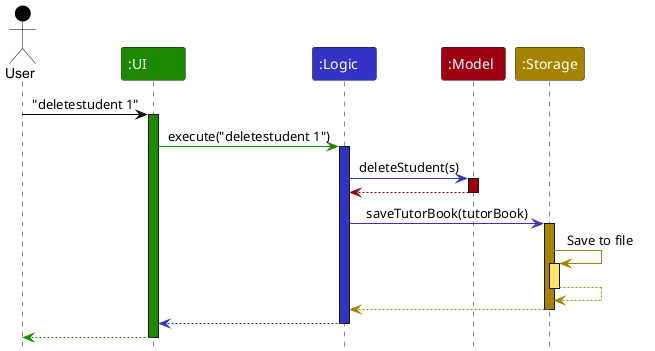
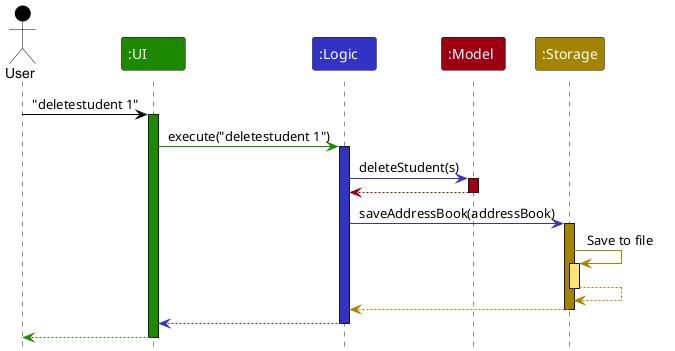
Use the code's class names in the Developer Guide
The Logic section, the proposed undo/redo section and their diagrams
named TutorBook, TutorBookParser and VersionedTutorBook, which do not
exist in the code. Rename them to AddressBook, AddressBookParser and
VersionedAddressBook, and the matching methods, and re-render the
architecture, delete, parser, commit and undo/redo diagrams.

diff --git a/docs/DeveloperGuide.md b/docs/DeveloperGuide.md
@@ -103,7 +103,7 @@ The sequence diagram below illustrates the interactions within the `Logic` compo
 
 How the `Logic` component works:
 
-1. When `Logic` is called upon to execute a command, the command is passed to a `TutorBookParser` object, which in turn creates a parser that matches the command (e.g., `DeleteStudentCommandParser`) and uses it to parse the command.
+1. When `Logic` is called upon to execute a command, the command is passed to a `AddressBookParser` object, which in turn creates a parser that matches the command (e.g., `DeleteStudentCommandParser`) and uses it to parse the command.
 1. This results in a `Command` object (more precisely, an object of one of its subclasses e.g., `DeleteStudentCommand`) which is executed by the `LogicManager`.
 1. The command can communicate with the `Model` when it is executed (e.g. to delete a student).<br>
    Note that although this is shown as a single step in the diagram above for simplicity, the code can require several interactions between the command object and the `Model` to complete the operation.
@@ -114,7 +114,7 @@ Here are the other classes in `Logic` (omitted from the class diagram above) tha
 <img src="images/ParserClasses.png" width="600"/>
 
 How the parsing works:
-* When called upon to parse a user command, the `TutorBookParser` class creates an `XYZCommandParser` (`XYZ` is a placeholder for the specific command name, e.g., `AddStudentCommandParser`). The parser uses the other classes shown above to parse the user command and create an `XYZCommand` object (e.g., `AddStudentCommand`). The `TutorBookParser` returns that object as a `Command` object.
+* When called upon to parse a user command, the `AddressBookParser` class creates an `XYZCommandParser` (`XYZ` is a placeholder for the specific command name, e.g., `AddStudentCommandParser`). The parser uses the other classes shown above to parse the user command and create an `XYZCommand` object (e.g., `AddStudentCommand`). The `AddressBookParser` returns that object as a `Command` object.
 * All `XYZCommandParser` classes, such as `AddStudentCommandParser` and `DeleteStudentCommandParser`, implement the `Parser` interface so they can be treated similarly where appropriate, for example during testing.
 
 ### Model component
@@ -369,37 +369,37 @@ Step 4. Otherwise, the command calls `Model#unenrolStudent()`, which removes the
 
 #### Proposed Implementation
 
-The proposed undo/redo mechanism is facilitated by `VersionedTutorBook`. It extends `TutorBook` with an undo/redo history, stored internally as a `tutorBookStateList` and `currentStatePointer`. Additionally, it implements the following operations:
+The proposed undo/redo mechanism is facilitated by `VersionedAddressBook`. It extends `AddressBook` with an undo/redo history, stored internally as a `addressBookStateList` and `currentStatePointer`. Additionally, it implements the following operations:
 
-* `VersionedTutorBook#commit()` — Saves the current tutor book state in its history.
-* `VersionedTutorBook#undo()` — Restores the previous tutor book state from its history.
-* `VersionedTutorBook#redo()` — Restores a previously undone tutor book state from its history.
+* `VersionedAddressBook#commit()` — Saves the current address book state in its history.
+* `VersionedAddressBook#undo()` — Restores the previous address book state from its history.
+* `VersionedAddressBook#redo()` — Restores a previously undone address book state from its history.
 
-These operations are exposed in the `Model` interface as `Model#commitTutorBook()`, `Model#undoTutorBook()` and `Model#redoTutorBook()` respectively.
+These operations are exposed in the `Model` interface as `Model#commitAddressBook()`, `Model#undoAddressBook()` and `Model#redoAddressBook()` respectively.
 
 Given below is an example usage scenario and how the undo/redo mechanism behaves at each step.
 
-Step 1. The user launches the application for the first time. The `VersionedTutorBook` will be initialized with the initial tutor book state, and the `currentStatePointer` pointing to that single tutor book state.
+Step 1. The user launches the application for the first time. The `VersionedAddressBook` will be initialized with the initial address book state, and the `currentStatePointer` pointing to that single address book state.
 
 ![UndoRedoState0](images/UndoRedoState0.png)
 
-Step 2. The user executes `deletestudent 5` command to delete the 5th student in the tutor book. The `deletestudent` command calls `Model#commitTutorBook()`, causing the modified state of the tutor book after the `deletestudent 5` command executes to be saved in the `tutorBookStateList`, and the `currentStatePointer` is shifted to the newly inserted tutor book state.
+Step 2. The user executes `deletestudent 5` command to delete the 5th student in the address book. The `deletestudent` command calls `Model#commitAddressBook()`, causing the modified state of the address book after the `deletestudent 5` command executes to be saved in the `addressBookStateList`, and the `currentStatePointer` is shifted to the newly inserted address book state.
 
 ![UndoRedoState1](images/UndoRedoState1.png)
 
-Step 3. The user executes `addstudent n/David …` to add a new student. The `addstudent` command also calls `Model#commitTutorBook()`, causing another modified tutor book state to be saved into the `tutorBookStateList`.
+Step 3. The user executes `addstudent n/David …` to add a new student. The `addstudent` command also calls `Model#commitAddressBook()`, causing another modified address book state to be saved into the `addressBookStateList`.
 
 ![UndoRedoState2](images/UndoRedoState2.png)
 
-<div markdown="span" class="alert alert-info">:information_source: **Note:** If a command fails its execution, it will not call `Model#commitTutorBook()`, so the tutor book state will not be saved into the `tutorBookStateList`.
+<div markdown="span" class="alert alert-info">:information_source: **Note:** If a command fails its execution, it will not call `Model#commitAddressBook()`, so the address book state will not be saved into the `addressBookStateList`.
 
 </div>
 
-Step 4. The user now decides that adding the student was a mistake, and decides to undo that action by executing the `undo` command. The `undo` command will call `Model#undoTutorBook()`, which will shift the `currentStatePointer` once to the left, pointing it to the previous tutor book state, and restores the tutor book to that state.
+Step 4. The user now decides that adding the student was a mistake, and decides to undo that action by executing the `undo` command. The `undo` command will call `Model#undoAddressBook()`, which will shift the `currentStatePointer` once to the left, pointing it to the previous address book state, and restores the address book to that state.
 
 ![UndoRedoState3](images/UndoRedoState3.png)
 
-<div markdown="span" class="alert alert-info">:information_source: **Note:** If the `currentStatePointer` is at index 0, pointing to the initial tutor book state, then there are no previous tutor book states to restore. The `undo` command uses `Model#canUndoTutorBook()` to check if this is the case. If so, it will return an error to the user rather
+<div markdown="span" class="alert alert-info">:information_source: **Note:** If the `currentStatePointer` is at index 0, pointing to the initial address book state, then there are no previous address book states to restore. The `undo` command uses `Model#canUndoAddressBook()` to check if this is the case. If so, it will return an error to the user rather
 than attempting to perform the undo.
 
 </div>
@@ -416,17 +416,17 @@ Similarly, how an undo operation goes through the `Model` component is shown bel
 
 ![UndoSequenceDiagram](images/UndoSequenceDiagram-Model.png)
 
-The `redo` command does the opposite — it calls `Model#redoTutorBook()`, which shifts the `currentStatePointer` once to the right, pointing to the previously undone state, and restores the tutor book to that state.
+The `redo` command does the opposite — it calls `Model#redoAddressBook()`, which shifts the `currentStatePointer` once to the right, pointing to the previously undone state, and restores the address book to that state.
 
-<div markdown="span" class="alert alert-info">:information_source: **Note:** If the `currentStatePointer` is at index `tutorBookStateList.size() - 1`, pointing to the latest tutor book state, then there are no undone tutor book states to restore. The `redo` command uses `Model#canRedoTutorBook()` to check if this is the case. If so, it will return an error to the user rather than attempting to perform the redo.
+<div markdown="span" class="alert alert-info">:information_source: **Note:** If the `currentStatePointer` is at index `addressBookStateList.size() - 1`, pointing to the latest address book state, then there are no undone address book states to restore. The `redo` command uses `Model#canRedoAddressBook()` to check if this is the case. If so, it will return an error to the user rather than attempting to perform the redo.
 
 </div>
 
-Step 5. The user then decides to execute the command `liststudents`. Commands that do not modify the tutor book, such as `liststudents`, will usually not call `Model#commitTutorBook()`, `Model#undoTutorBook()` or `Model#redoTutorBook()`. Thus, the `tutorBookStateList` remains unchanged.
+Step 5. The user then decides to execute the command `liststudents`. Commands that do not modify the address book, such as `liststudents`, will usually not call `Model#commitAddressBook()`, `Model#undoAddressBook()` or `Model#redoAddressBook()`. Thus, the `addressBookStateList` remains unchanged.
 
 ![UndoRedoState4](images/UndoRedoState4.png)
 
-Step 6. The user executes `addlesson n/Sec 1 Math …`, which calls `Model#commitTutorBook()`. Since the `currentStatePointer` is not pointing at the end of the `tutorBookStateList`, all tutor book states after the `currentStatePointer` will be purged. Reason: It no longer makes sense to redo the `addstudent n/David …` command. This is the behavior that most modern desktop applications follow.
+Step 6. The user executes `addlesson n/Sec 1 Math …`, which calls `Model#commitAddressBook()`. Since the `currentStatePointer` is not pointing at the end of the `addressBookStateList`, all address book states after the `currentStatePointer` will be purged. Reason: It no longer makes sense to redo the `addstudent n/David …` command. This is the behavior that most modern desktop applications follow.
 
 ![UndoRedoState5](images/UndoRedoState5.png)
 
@@ -438,7 +438,7 @@ The following activity diagram summarizes what happens when a user executes a ne
 
 **Aspect: How undo & redo execute:**
 
-* **Alternative 1 (current choice):** Saves the entire tutor book.
+* **Alternative 1 (current choice):** Saves the entire address book.
   * Pros: Easy to implement.
   * Cons: May have performance issues in terms of memory usage.
 
